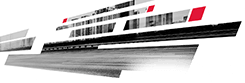
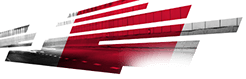
Do VAN - 728x90

diff --git a/2016-05-11/source/VAN/728x90.css b/2016-05-11/source/VAN/728x90.css
@@ -696,7 +696,7 @@
   -o-animation: fadeOut 10ms ease-in-out 4s forwards;
   animation: fadeOut 10ms ease-in-out 4s forwards; 
 }
-.front-wheel-container, .front-wheel-2-container {
+.front-wheel-container, .front-wheel-2-container, .front-wheel-3-container {
   width: 24px;
   height: 37px;
   top: 37px;
@@ -707,7 +707,7 @@
   -ms-transform: scaleX(0.6486);
   transform: scaleX(0.6486);
 }
-.front-wheel, .front-wheel-2 {
+.front-wheel, .front-wheel-2, .front-wheel-3 {
   width: 37px;
   height: 37px;
   background: url('./images/728x90_wheel_front.png') no-repeat center center;
@@ -715,7 +715,7 @@
   top: 0px;
   left: 0px;
 }
-.back-wheel-container, .back-wheel-2-container {
+.back-wheel-container, .back-wheel-2-container, .back-wheel-3-container {
   width: 14px;
   height: 29px;
   top: 34px;
@@ -726,7 +726,7 @@
   -ms-transform: scaleX(0.4828);
   transform: scaleX(0.4828);
 }
-.back-wheel, .back-wheel-2 {
+.back-wheel, .back-wheel-2, .back-wheel-3  {
   width: 29px;
   height: 29px;
   background: url('./images/728x90_wheel_back.png') no-repeat center center;
@@ -742,6 +742,13 @@
   animation: wheelRotationAnimation 1.5s ease-in-out 2.5s forwards;
 }
 
+.car-2-outside {
+  -webkit-animation: fadeOut 0.5s ease-in-out 10s forwards;
+  -moz-animation: fadeOut 0.5s ease-in-out 10s forwards;
+  -ms-animation: fadeOut 0.5s ease-in-out 10s forwards;
+  -o-animation: fadeOut 0.5s ease-in-out 10s forwards;
+  animation: fadeOut 0.5s ease-in-out 10s forwards;
+}
 .car-2-container {
   -webkit-transform: translate(728px,50px);
   -moz-transform: translate(728px,50px);
@@ -797,6 +804,64 @@
   animation: wheelRotationAnimation 1.5s ease-in-out 6.5s forwards;
 }
 
+
+
+.car-3-container {
+  -webkit-transform: translate(728px,50px);
+  -moz-transform: translate(728px,50px);
+  -ms-transform: translate(728px,50px);
+  -o-transform: translate(728px,50px);
+  transform: translate(728px,50px);
+
+  -webkit-animation: rollBack 10ms ease-in-out 0s forwards;
+  -moz-animation: rollBack 10ms ease-in-out 0s forwards;
+  -ms-animation: rollBack 10ms ease-in-out 0s forwards;
+  -o-animation: rollBack 10ms ease-in-out 0s forwards;
+  animation: rollBack 10ms ease-in-out 0s forwards;
+}
+.car-3 {
+  width: 182px;
+  height: 77px;
+  background: url('./images/728x90_car_3.png') no-repeat center center;
+  top: 8px;
+  left: 30px;
+
+  -webkit-transform: translate(-728px,-50px);
+  -moz-transform: translate(-728px,-50px);
+  -ms-transform: translate(-728px,-50px);
+  -o-transform: translate(-728px,-50px);
+  transform: translate(-728px,-50px);
+
+  -webkit-animation: carRunAnimation 1.5s ease-in-out 10.5s forwards;
+  -moz-animation: carRunAnimation 1.5s ease-in-out 10.5s forwards;
+  -ms-animation: carRunAnimation 1.5s ease-in-out 10.5s forwards;
+  -o-animation: carRunAnimation 1.5s ease-in-out 10.5s forwards;
+  animation: carRunAnimation 1.5s ease-in-out 10.5s forwards;
+}
+.wheel-container-3 {
+  -webkit-animation: fadeOut 10ms ease-in-out 12s forwards;
+  -moz-animation: fadeOut 10ms ease-in-out 12s forwards;
+  -ms-animation: fadeOut 10ms ease-in-out 12s forwards;
+  -o-animation: fadeOut 10ms ease-in-out 12s forwards;
+  animation: fadeOut 10ms ease-in-out 12s forwards;
+}
+.front-wheel-3-container {
+  top: 34px;
+  left: 65px;
+}
+.back-wheel-3-container {
+  top: 32px;
+  left: 6px;
+}
+.back-wheel-3, .front-wheel-3 {
+  -webkit-animation: wheelRotationAnimation 1.5s ease-in-out 10.5s forwards;
+  -moz-animation: wheelRotationAnimation 1.5s ease-in-out 10.5s forwards;
+  -ms-animation: wheelRotationAnimation 1.5s ease-in-out 10.5s forwards;
+  -o-animation: wheelRotationAnimation 1.5s ease-in-out 10.5s forwards;
+  animation: wheelRotationAnimation 1.5s ease-in-out 10.5s forwards;
+}
+
+
 .text-container {
   -webkit-transform: translate(728px,0);
   -moz-transform: translate(728px,0);
@@ -823,11 +888,11 @@
   -o-transform: translate(-728px,0);
   transform: translate(-728px,0);
 
-  -webkit-animation: fadeIn 1s ease-in-out 8s forwards;
-  -moz-animation: fadeIn 1s ease-in-out 8s forwards;
-  -ms-animation: fadeIn 1s ease-in-out 8s forwards;
-  -o-animation: fadeIn 1s ease-in-out 8s forwards;
-  animation: fadeIn 1s ease-in-out 8s forwards;
+  -webkit-animation: fadeIn 1s ease-in-out 12s forwards;
+  -moz-animation: fadeIn 1s ease-in-out 12s forwards;
+  -ms-animation: fadeIn 1s ease-in-out 12s forwards;
+  -o-animation: fadeIn 1s ease-in-out 12s forwards;
+  animation: fadeIn 1s ease-in-out 12s forwards;
 }
 .logo-container {
   -webkit-transform: translate(728px,0);
@@ -855,11 +920,11 @@
   -o-transform: translate(-728px,0);
   transform: translate(-728px,0);
 
-  -webkit-animation: fadeIn 1s ease-in-out 9s forwards;
-  -moz-animation: fadeIn 1s ease-in-out 9s forwards;
-  -ms-animation: fadeIn 1s ease-in-out 9s forwards;
-  -o-animation: fadeIn 1s ease-in-out 9s forwards;
-  animation: fadeIn 1s ease-in-out 9s forwards;
+  -webkit-animation: fadeIn 1s ease-in-out 13s forwards;
+  -moz-animation: fadeIn 1s ease-in-out 13s forwards;
+  -ms-animation: fadeIn 1s ease-in-out 13s forwards;
+  -o-animation: fadeIn 1s ease-in-out 13s forwards;
+  animation: fadeIn 1s ease-in-out 13s forwards;
 }
 .cta-wrapper {
   -webkit-animation: hideContent 10ms ease-in-out 0s forwards;
@@ -894,11 +959,11 @@
   -o-transform: translate(728px,0);
   transform: translate(728px,0);
 
-  -webkit-animation: slideLeft2 0.5s ease-in-out 10s forwards;
-  -moz-animation: slideLeft2 0.5s ease-in-out 10s forwards;
-  -ms-animation: slideLeft2 0.5s ease-in-out 10s forwards;
-  -o-animation: slideLeft2 0.5s ease-in-out 10s forwards;
-  animation: slideLeft2 0.5s ease-in-out 10s forwards;
+  -webkit-animation: slideLeft2 0.5s ease-in-out 14s forwards;
+  -moz-animation: slideLeft2 0.5s ease-in-out 14s forwards;
+  -ms-animation: slideLeft2 0.5s ease-in-out 14s forwards;
+  -o-animation: slideLeft2 0.5s ease-in-out 14s forwards;
+  animation: slideLeft2 0.5s ease-in-out 14s forwards;
 }
 
 .border {

diff --git a/2016-05-11/source/VAN/728x90.html b/2016-05-11/source/VAN/728x90.html
@@ -33,15 +33,35 @@
 							</div>
 						</div>
 					</div>
-					<div class="car-2-container container">
-						<div class="car-2 absolute">
-							<div class="wheel-container container">
-								<div class="wheel-container-2 container">
-									<div class="front-wheel-2-container absolute">
-										<div class="front-wheel-2 absolute">&nbsp;</div>
+					
+					<div class="car-2-outside container">
+						<div class="car-2-wrapper container">
+							<div class="car-2-container container">
+								<div class="car-2 absolute">
+									<div class="wheel-container container">
+										<div class="wheel-container-2 container">
+											<div class="front-wheel-2-container absolute">
+												<div class="front-wheel-2 absolute">&nbsp;</div>
+											</div>
+											<div class="back-wheel-2-container absolute">
+												<div class="back-wheel-2 absolute">&nbsp;</div>
+											</div>
+										</div>
 									</div>
-									<div class="back-wheel-2-container absolute">
-										<div class="back-wheel-2 absolute">&nbsp;</div>
+								</div>
+							</div>
+						</div>
+					</div>
+					
+					<div class="car-3-container container">
+						<div class="car-3 absolute">
+							<div class="wheel-container container">
+								<div class="wheel-container-3 container">
+									<div class="front-wheel-3-container absolute">
+										<div class="front-wheel-3 absolute">&nbsp;</div>
+									</div>
+									<div class="back-wheel-3-container absolute">
+										<div class="back-wheel-3 absolute">&nbsp;</div>
 									</div>
 								</div>
 							</div>
